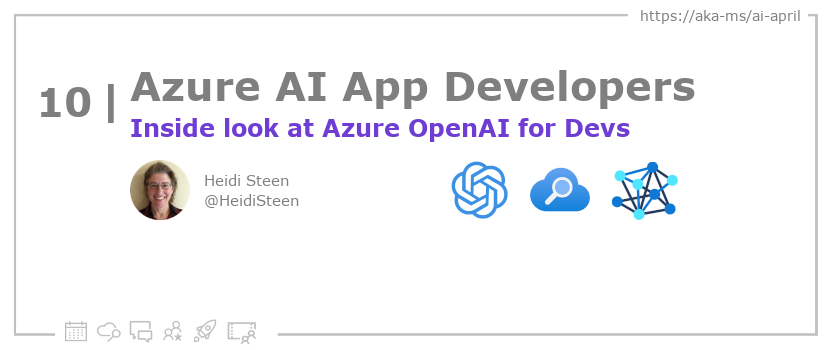
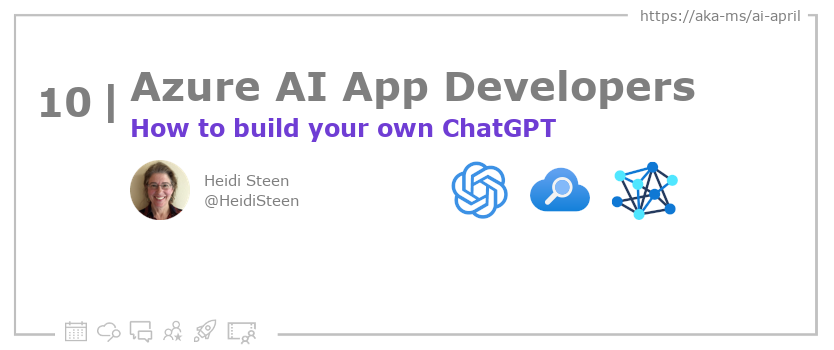
docs

Changed region(s): [[0.1559, 0.3143, 0.7794, 0.4]]

diff --git a/website/2023-aia/2023-03-29-kickoff/index.md b/website/2023-aia/2023-03-29-kickoff/index.md
@@ -15,11 +15,11 @@ description: "Welcome to #AiApril! Join us for #30DaysOfAzureAI learning, skilli
 
 <head>  
 
-  <link rel="canonical"  href="https://azureaidevs.github.io/hub/2023-aia/day1"  />
+  <link rel="canonical" href="https://youtu.be/D7_RN5Gc-RE"  />
 
 </head>
 
-
+- 👓 [Read today's article](https://youtu.be/D7_RN5Gc-RE)
 - 📬 [Sign up for the Microsoft AI and Machine Learning Newsletter](https://aka.ms/azure-ai-dev-newsletter)
 <!-- - 📰 [Subscribe to the #30DaysOfAzureAI RSS feed](https://azureaidevs.github.io/hub/2023-aia/rss.xml) -->
 - 🌤 [Continue the Azure AI Cloud Skills Challenge](https://aka.ms/30-days-of-azure-ai-challenge)
@@ -41,7 +41,7 @@ If you update the description, please update the description: in the frontmatter
 The following is the intro to the post. It should be a short teaser for the post.
 -->
 
-
+Hello and welcome to AI April and #30DaysOfAzureAI.
 
 ## 🎯 What we'll cover
 
@@ -73,8 +73,23 @@ See the Learn More section, if you supplied a canonical link, then will be displ
 -->
 
 
+Tune in, and watch  The speaker discusses the power of AI, including text-to-speech and text-to-image models, coding, and language, and how ChatGPT has changed the conversation about AI by making it real for millions of people. The speaker also talks about the need to set the right mental model for users of AI-generated information. 
+
+Tune into the discussion with John Montgomery, corporate vice president of product at Microsoft, who talks about the impact of AI advancements on customers, including the Azure OpenAI service and ChatGPT. 
+
+write a short summary of the text below.
+
+Tune in, and watch John Montgomery, corporate vice president of product at Microsoft discuss the power of AI, including text-to-speech and text-to-image models, coding, and language, and how ChatGPT has changed the conversation about AI by making it real for millions of people. The speaker also talks about the need to set the right mental model for users of AI-generated information. 
 
 
+
+
+
+Transcript: "These models-- you've got text-to-speech. You've got, rather, I should say, text-to-image with DAL-E. You've got coding. You've got language. Your ChatGPT has completely changed the conversation about AI. I think those of us who have been on the inside of AI definitely have thought about it as, of course, it's changing the world, and we see it every day. But I think ChatGPT made it real for millions of people by showing them what it can do and how powerful it is, and their imaginations are now freed. How can this be really useful towards someone who may have, say, limited mobility? One of my colleagues, Christina, her arms are paralyzed, and she types with her toes. And watching her use this product is really cool because she said, oh, I just have to type one sentence rather than typing lots of sentences to plan a trip, for example. How do we set the right mental model for a technology like this? It's super impressive. It can create. It can cite information. And so, we found that people tend to over trust or over rely the kind of information it generates. And so, a lot of what our team did was, like, how do you set the right mental model for users, reminding them, hey, this is from the internet, just as reliable as the internet. Some things are factual. Some things are not.  So, hi, everyone. Welcome to the Global AI Bootcamp 2023. We welcome you as one of the attendees of our yearly global event with more than 70 locations around the world. Sammy, do you know that this is already the fifth event in a row? Five already? Yes. OK. It's a 5th anniversary. Wow. It's crazy. Time really flies. Yeah. We started in 2018, together with the Global HRD Community. And then, in 2019, it really exploded, with lots of locations around the globe. Exactly. Then, we had a couple of years, which were virtual and some were hybrid. And now, we're back with our 5th, anniversary of big events, with lots of locations around the world. It's really a nice history already, but I think there's a lot of people also that we need to thank. And actually, those people are, right now, together with you, in the room. And as the local organizers, they've been working hard to find a venue to find speakers, to find sponsors, or maybe even catering for some foods. So please, thank you to all the local organizers. Give them a random applause for all the work that they've been doing. I think they really earn it because of doing all that kind of work. Yes, thank you. Yeah. But there's also some other people who have been doing a lot of work over the last five years, and one person, specifically-- well, it's sad that you cannot see him, but we can see him. So give me a second. Let me switch on my phone and my camera. Here. Do you see this guy here? He's one of the founding fathers of the Global AI Community and has been working for us for over five years, of course, doing everything. And now, somehow, he found a new passion in producing videos like this. So should we go inside? Let's go inside. OK, let's go. Come on inside.  So, hi, John. Welcome to the Global AI Bootcamp. Hi, thank you very much for having me. Yes. And thank you for being here with me. It's my pleasure. Yeah. Before we start, can you tell us who you are and what you do at Microsoft? Sure. I'm John Montgomery, and I am the corporate vice president of product, in charge of Azure AI, which includes the Azure Cognitive Services, Azure OpenAI Service, Azure machine learning, and our AI frameworks. So if we look at the past year, what is your most memorable moment in terms of AI advancements? The last year has been amazing. I tend to think about the world in terms of customer impact, more so than like research impact or product advances. And in the last year, I would say, we've seen several interesting customer things happen. One of the biggest-- I mean, I could pick-- so there are little ones, like the improvements we've seen in our cognitive, like neural voices. The quality is getting better. It's taking less training data, and that's enabled customers like Duolingo to add languages and to make the interactions more personal. We've done a whole bunch inside of Azure machine learning to make it scale better, to make training better. And that's impacted a bunch of customers, ranging from big ones, like Chevron to some of our newer customers. I think, though, if you look back at the last year, probably, the single biggest thing is around Azure OpenAI service going general availability and ChatGPT. And those are, probably, the biggest things in the last year. ChatGPT has completely changed the conversation about AI. I think those of us who have been on the inside of AI definitely have thought about it as-- of course, it's changing the world, and we see it every day. But I think ChatGPT made it real for millions of people by showing them what it can do and how powerful it is, and their imaginations are now freed. Yeah, that's totally true. I've used it for a couple of times now, and it is really, really big. And it's really game changing. I have to ask you then, what's the coolest thing you've done with ChatGPT? Oh, I have written some social media posts for my podcast. Cool. It's very good at it, even better than I am. It is very good at things like that, yes. Yeah, totally true. You also lead a team at Microsoft, and that team focuses on building tools that are used by customers to create their own AI solutions. So can you share a customer story with us that really stood out for you? Wow.  So when I think about my customers, I really kind of think about it in two cohorts. Microsoft is actually my largest customer. All of the AI services at Microsoft, they're using Azure machine learning for training or for inference. They're calling our cognitive services. They're using Azure OpenAI Service, and that includes things like GitHub Copilot, which is built on Azure OpenAI. It includes things like Dynamics 365. I think, though, from a first party perspective, in the last few days, we've seen some really huge announcements. It was one that actually happened just today, where we're seeing the potential of ChatGPT, like things in Bing. We've also seen a massive announcement around Viva Sales and Teams premium. We've been working for years with the Teams team to do transcription of meetings. And that transcription can drive things like closed captioning. But we haven't tapped the full potential until Teams Premium came out. And now, you can get meetings summaries sent to you and action items assigned to you in Teams. And that's just showing the power of what AI can do. So from a first party perspective, I think that one is super interesting. From a a third party customer perspective, I'm going to pick a totally different one. And I would focus more on the impact that some of our responsible AI tooling has had. The National Health Service in the UK has been completely inundated since the start of COVID. And they have been using the responsible AI tools inside Azure Machine Learning to help drive clarity and confidence in some of the machine learning models they've created to figure out where surgery patients should go for their hip and knee surgeries, whether they need to go to a major medical center, or they can go to a smaller regional medical center based on a risk assessment profile. And so, obviously, helping customers is huge. And that was just an amazing example of, basically, doctors working with their data science teams to help an immediate and local problem using the tools my team creates. What do you think are the three topics that people should be educated in? I'd call out three things. These models, it doesn't work that way. I mean, these models take months to train on supercomputers, right? And I think, now, we're starting to give people fine tuning APIs and more and more tools on top of it. Understanding what you can do with these, understanding prompt engineering and what's coming after that, that is a major thing for everybody. Absolutely. Yes. Thank you so much, John, for being here with me. Thank you. It's been great to be here. Thank you. Well, that was a very interesting conversation you had with John. He really showed us what the strategy Microsoft has for implementing AI in their products and also the future that they are looking into. So in the case of OpenAI, it has fantastic language capabilities with the GPT 3 models. Also, one of the cousins of that is ChatGPT, which has really captured the hearts and the minds of everyone around the world. And there's also the ability to do text-to-image the DALL-E model. And then, last, we have codex-- extremely important, really, to democratize software development and providing people access to SQL databases that aren't SQL devs. But in enterprises, company secrets and so forth are not going to go back into the model training. But so, we have the best of both worlds. We have OpenAI continually retraining, and then our enterprise customers, with that data security value that we provide. Which is very important, of course. It's quite interesting. They're the same code base, the same instances of the models. When you get Text-Davinci-003 on OpenAI, you can take that work, reproduce it, again, within the stochastic characteristics of the models, and get the same type of answers. So we see customers working on OpenAI and then directly transferring that knowledge over to Azure OpenAI Service very seamlessly. So you've talked now how enterprise organizations are already making use of these services. Can you give us any example, a use case? Oh, yeah, absolutely. So we see, with use cases, the language use cases are grouped into four buckets or broad categories. The first, we call reason over structured and unstructured data. It is done out there. And then, also, we see a lot in marketing campaigns for developing taglines, for email headers, et cetera. So there are a few case studies that were out there. I mentioned Trelent. CarMax is a customer that's been using it to summarize thousands of automobile reviews, down to a very coherent description, saving thousands of hours of collating all that information together. You've got language. Multimodal is something that we're looking at, moving forward, where these multiple model capabilities are all converging onto a single model, a single API. So that's something to look forward to. Also, being used for more forward-looking, like external users, social media type things. I'm really looking forward to everything that this is going to bring in the upcoming years. For sure. I'm also looking forward to that. But I think our next guest will really giving us an example how OpenAI has been embedded in a business application. Let's have a view also on that. Let's do that. And so, that was our initial step, was really around education around user transparency. But there's so many more places that we want to go to in terms of what is the future human-AI interaction model that we really want to create with the technology like this. OK, it's quite interesting. Now, the tool that-- well, the model that is used behind the service is ChatGPT, where it consumes a lot of data to get trained. I would say, on the platform level, there's been a lot of work in terms of safety, like content moderation, how do we think about safe inputs and outputs. If users tend to ask Bing, hey, I got this prescription from my medication. Does that look right? It will tell you, hey, you should consult the medical professional. For example, back to the ChatGPT scenario. If people are using it for medical professionals, even if doctors aren't directly using it, it might affect them. Because their patients might not be going to them and say, hey, I got this prescription or this diagnosis. What do you think? And so, we think about those different layers. Looking forward to see more of you and your team, also read articles or see videos about it. Thank you very much. Thanks. Well, that was a really interesting conversation I just had. I'm really looking forward to where AI is going to be embedded in even more business applications. Yeah, me, too. And there is also another field where AI can have a huge impact. You're not making like Uber for fresh fruit, right? It's got a real reason to exist, all this cool innovation. And when you look at the intersection of the two, you're looking at ways, where you're literally solving the equity divide. And there's three things that I've seen Microsoft do in the last few years that I think it's really important to call out. They're part of their nightly insider builds, and there's a brand new one called Explain, where you can highlight a chunk of code, and they'll explain on natural language what it does. I use it when I'm getting familiar with the new code base or some product that I've never worked with before. Like, yes, I can use them, but they're useful and usable, right? So, how can this be really useful toward someone who may have, say, limited mobility? One of my colleagues, Christina, her arms are paralyzed, and she types with her toes. And watching her use this product is really cool because she said, oh, I know just have to type one sentence rather than typing lots of sentences to plan a trip, for example. So you can imagine, that's a game changer for people because it gives you this easy button shortcut key toward not having to read a large quantity of words, if you are a dyslexic person like me. Yeah, that's really a major step forward for including everyone here. That's right. And just making life easier for all kinds of people."
+
+## 👓 Read today's article
+
+Today's [article](https://youtu.be/D7_RN5Gc-RE).
 
 
 ## 🙋🏾♂ Questions?

diff --git a/website/2023-aia/2023-04-13-inside-onnx-excel/index.md b/website/2023-aia/2023-04-13-inside-onnx-excel/index.md
@@ -2,7 +2,7 @@
 slug: "day12"
 title: "12. 🧑💻Run BERT NLP models locally in Excel"
 authors: ['Cassie']
-draft: true
+draft: false
 hide_table_of_contents: false
 toc_min_heading_level: 2
 toc_max_heading_level: 3
@@ -10,7 +10,7 @@ keywords: ['onnx', 'JavaScript', 'Excel', 'Azure-AI']
 tags: ['ai-april', '30-days-of-azure-ai', 'app-developers']
 
 image: "https://azureaidevs.github.io/hub/img/2023-aia/banner-day12.png"
-description: "Run BERT NLP models locally in Excel with ONNX and JavaScript https://azureaidevs.github.io/hub/2023-aia/day12 #30DaysOfAzureAI #AzureAiDevs #AI #ONNX"
+description: "Build an Excel Add-in with ONNX Runtime Web for NLP Tasks https://azureaidevs.github.io/hub/2023-aia/day12 #30DaysOfAzureAI #AzureAiDevs #AI #ONNX"
 ---
 
 <head>  
@@ -35,13 +35,13 @@ The following description is also used for the tweet. So it should be action ori
 If you update the description, please update the description: in the frontmatter as well.
 -->
 
-**Run BERT NLP models locally in Excel with ONNX and JavaScript**
+**Build an Excel Add-in with ONNX Runtime Web for NLP Tasks**
 
 <!-- README
 The following is the intro to the post. It should be a short teaser for the post.
 -->
 
-Yesterday was all about building cross-platform intelligent apps with .NET MAUI and ONNX. Today is for people looking to extend Excel with BERT-JS and the ONNX Runtime. Wait, was "Excel, BERT-JS, and ONNX" used in the same sentence?😄 Yup, they were, so follow along to learn more.
+Yesterday was all about building cross-platform intelligent apps with .NET MAUI and ONNX. Today is for people looking to extend Excel with BERT NLP tasks enabled by ONNX Runtime Web in JavaScript. Wait, was "Excel, BERT, JavaScript and ONNX" used in the same sentence?😄 Yup, they were, so follow along to learn more.
 
 ## 🎯 What we'll cover
 
@@ -78,11 +78,9 @@ See the Learn More section, if you supplied a canonical link, then will be displ
 -->
 
 
-## 🚌 Build an Excel Add-in with BERT-JS and ONNX runtime
+## 🚌 Build an Excel Add-in with ONNX Runtime Web for Inferencing NLP models on Device
 
-Read [today's article](https://onnxruntime.ai/docs/tutorials/web/excel-addin-bert-js.html) about building an Excel Add-in with BERT-JS and ONNX Runtime".  You'll learn about the use of BERT-JS and ONNX Runtime enables the creation of an Excel add-in that performs natural language processing tasks within a spreadsheet. 
-
-BERT, a deep learning model developed by Google, is designed to understand the context and meaning of words in text. By using a transformer-based architecture, BERT can analyze entire sentences or paragraphs rather than processing words one by one. [Today's article](https://onnxruntime.ai/docs/tutorials/web/excel-addin-bert-js.html) provides step-by-step instructions and code examples to help readers follow along in building the add-in.
+Read [today's article](https://onnxruntime.ai/docs/tutorials/web/excel-addin-bert-js.html) about building an Excel Add-in with ONNX Runtime and JavaScript with on device inferencing. You'll learn how ONNX Runtime enables the inference of ML models cross-platform even locally in an Excel add-in! That tasks in this example will show you how to perform the natural language processing tasks of sentiment analysis and question and answering all locally within a spreadsheet.  [Today's article](https://onnxruntime.ai/docs/tutorials/web/excel-addin-bert-js.html) provides step-by-step instructions and code examples to help readers follow along in building the add-in.
 
 ## 👓 Read today's article
 

diff --git a/website/2023-aia/2023-04-11-build-chatgpt/index.md b/website/2023-aia/2023-04-11-build-chatgpt/index.md
@@ -1,6 +1,6 @@
 ---
 slug: "day10"
-title: "10. 🧑💻Inside look at Azure OpenAI for Devs"
+title: "10. 🧑💻How to build your own ChatGPT"
 authors: ['Heidi']
 draft: false
 hide_table_of_contents: false
@@ -10,7 +10,7 @@ keywords: ['Azure-OpenAI-Services', 'Cognitive-Search', 'Azure-AI']
 tags: ['ai-april', 'azure-open-ai', 'azure-cognitive-services', 'app-developers']
 
 image: "https://azureaidevs.github.io/hub/img/2023-aia/banner-day10.png"
-description: "Get ready to build dynamic, interactive and differentiated experiences with Azure OpenAI https://azureaidevs.github.io/hub/2023-aia/day10 #30DaysOfAzureAI #AzureAiDevs #AI #OpenAI"
+description: "Build your own ChatGPT with Azure Cognitive Search + Azure OpenAI Service https://azureaidevs.github.io/hub/2023-aia/day10 #30DaysOfAzureAI #AzureAiDevs #AI #OpenAI"
 ---
 
 <head>  
@@ -24,7 +24,7 @@ description: "Get ready to build dynamic, interactive and differentiated experie
 <!-- - 📰 [Subscribe to the #30DaysOfAzureAI RSS feed](https://azureaidevs.github.io/hub/2023-aia/rss.xml) -->
 - 🌤 [Continue the Azure AI Cloud Skills Challenge](https://aka.ms/30-days-of-azure-ai-challenge)
 - 🏫 [Bookmark the Azure AI Technical Community](https://techcommunity.microsoft.com/t5/artificial-intelligence-and/ct-p/AI)
-- 🙋🏾♂ [Ask a question about this post on GitHub Discussions](https://github.com/AzureAiDevs/hub/discussions/categories/10-inside-look-at-azure-openai-for-devs)
+- 🙋🏾♂ [Ask a question about this post on GitHub Discussions](https://github.com/AzureAiDevs/hub/discussions/categories/10-how-to-build-your-own-chatgpt)
 - 💡 [Suggest a topic for a future post](https://github.com/AzureAiDevs/hub/discussions/categories/call-for-content)
 
 
@@ -35,13 +35,15 @@ The following description is also used for the tweet. So it should be action ori
 If you update the description, please update the description: in the frontmatter as well.
 -->
 
-**Get ready to build dynamic, interactive and differentiated experiences with Azure OpenAI**
+**Build your own ChatGPT with Azure Cognitive Search + Azure OpenAI Service**
 
 <!-- README
 The following is the intro to the post. It should be a short teaser for the post.
 -->
 
-
+Yesterday was about the Azure AI Hub, a treasure trove of Azure AI SDK samples. Today, we're going to hear from 
+distinguished engineer Pablo Castro as he walks us through a progression of short examples that show us how to build 
+more dynamic, interactive, and differentiated experiences with the Azure OpenAI Service.
 
 ## 🎯 What we'll cover
 
@@ -200,7 +202,7 @@ for a walkthrough.
 
 ## 🙋🏾♂ Questions?
 
-[Remember, you can ask a question about this post on GitHub Discussions](https://github.com/AzureAiDevs/Discussions/discussions/categories/10-inside-look-at-azure-openai-for-devs)
+[Remember, you can ask a question about this post on GitHub Discussions](https://github.com/AzureAiDevs/Discussions/discussions/categories/10-how-to-build-your-own-chatgpt)
 
 ## 📍 30 days roadmap
 
